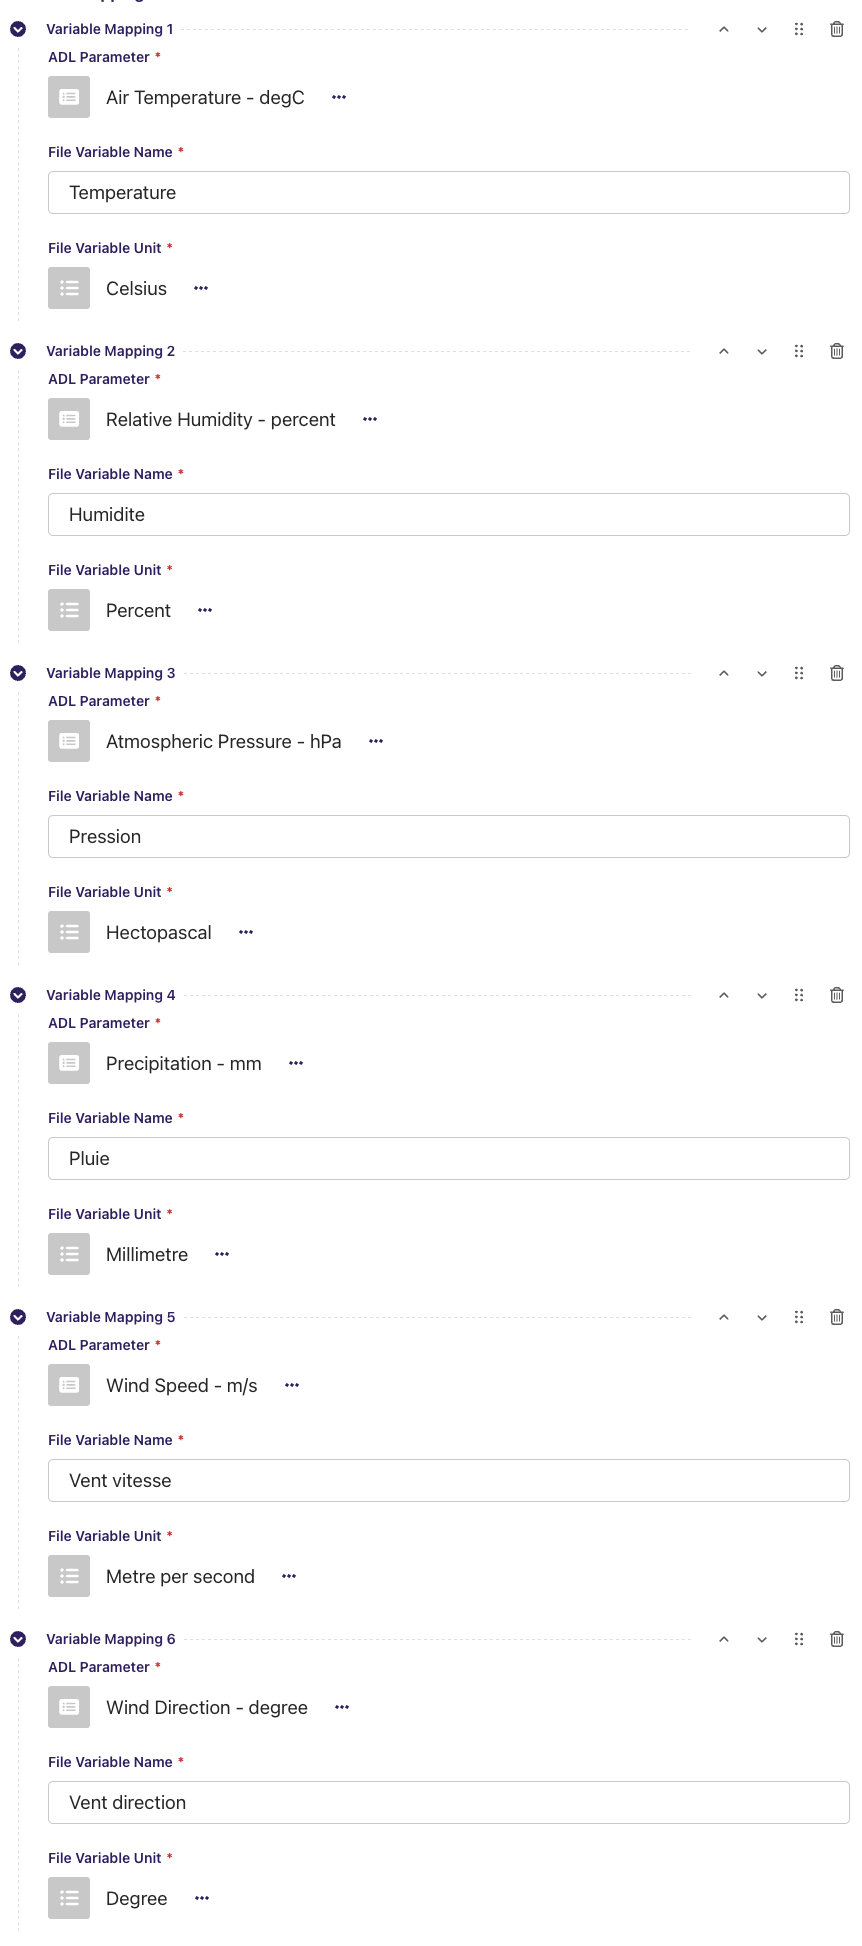
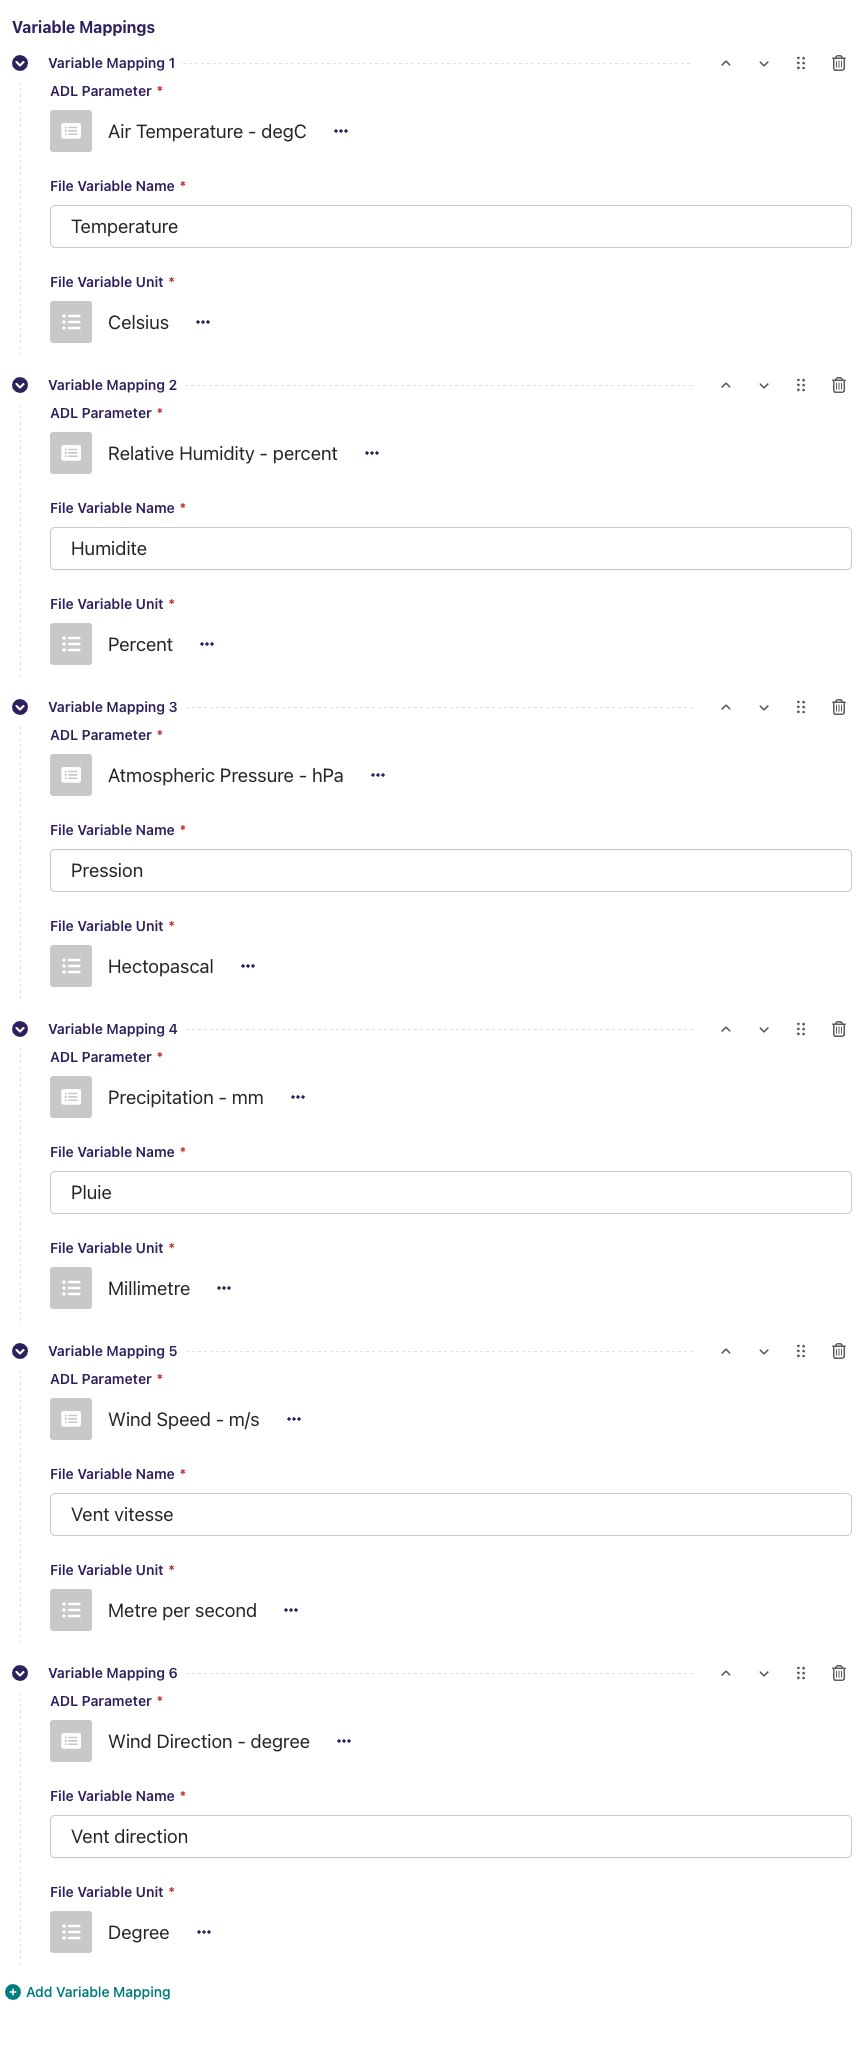
docs: prepare the guide for site aggregation, fix the mappings crop
The core Sphinx site now builds its plugin section from this repo's
docs/guide.md (adl scripts/aggregate_plugin_docs.py). Conform to the
conventions it enforces:

- add the adl_plugin front matter block that supplies this plugin's row in
  the generated plugin index and its sidebar entry. Its name matches the
  guide's H1, as the aggregation requires — the old hand-maintained plugin
  list called this "ADL ADCON BF Decoder" while the guide called it "ADL
  ADCON FTP Burkina Faso Plugin"; the guide's name won;
- replace the prose reference to the core Plugin Installation page, and
  point the source-checks section at Monitoring & Diagnostics for how to
  read the two screens, with links to the published pages. They work when
  this guide is read here on GitHub and are rewritten to internal, build-
  checked cross-references during aggregation. The link to the ADL FTP
  Plugin's own guide stays a GitHub URL until that guide is aggregated,
  at which point it becomes an internal reference with no edit here.

Also, from an image review: adcon_bf_variable_mappings was cropped to the
inline formset (#id_variable_mappings-FORMS), which starts below the
"Variable Mappings" header and so sliced it off the top of the shot. Crop to
#panel-variable_mappings-section, the panel element that holds the header and
the rows together.

The conventions are documented in the "Aggregation conventions" section of
docs-plan/README.md.
[…]

diff --git a/docs/guide.md b/docs/guide.md
@@ -1,3 +1,11 @@
+---
+adl_plugin:
+  name: ADL ADCON FTP Burkina Faso Plugin
+  connects_to: FTP decoder for ADCON stations
+  category: country
+  country: Burkina Faso
+  country_flag: "🇧🇫"
+---
 # ADL ADCON FTP Burkina Faso Plugin
 
 Adds a **decoder** to the [ADL FTP Plugin](https://github.com/wmo-raf/adl-ftp-plugin)
@@ -54,8 +62,8 @@ this guide covers what is specific to the Burkina Faso files.
 
 ## Installation
 
-Installed like any ADL plugin — see the core *Plugin Installation* page for all
-methods. Both entries are needed in `plugins.toml`, the FTP plugin first:
+Installed like any ADL plugin — see [Plugin Installation](https://adl-tool.readthedocs.io/en/latest/developer_guide/plugins/plugin_installation.html) for
+all methods. Both entries are needed in `plugins.toml`, the FTP plugin first:
 
 ```toml
 [[plugins]]
@@ -173,8 +181,9 @@ One run, per enabled station link:
 All monitoring for a connection using this decoder is the FTP plugin's: the
 **Ingestion Diagnostic** page proves the FTP host, port and account, and the
 station link's **Station Source Check** proves the resolved remote path and
-counts the files matching the pattern. Their messages are catalogued in the
-FTP plugin guide. This plugin adds no check of its own — a file that lists
+counts the files matching the pattern. How to read both screens is covered in
+[Monitoring & Diagnostics](https://adl-tool.readthedocs.io/en/latest/user_guide/monitoring_and_diagnostics.html); their FTP-specific messages are catalogued
+in the FTP plugin guide. This plugin adds no check of its own — a file that lists
 and downloads fine but does not decode shows up as a **run failure or a
 warning in the activity log**, not in the source checks.
 
